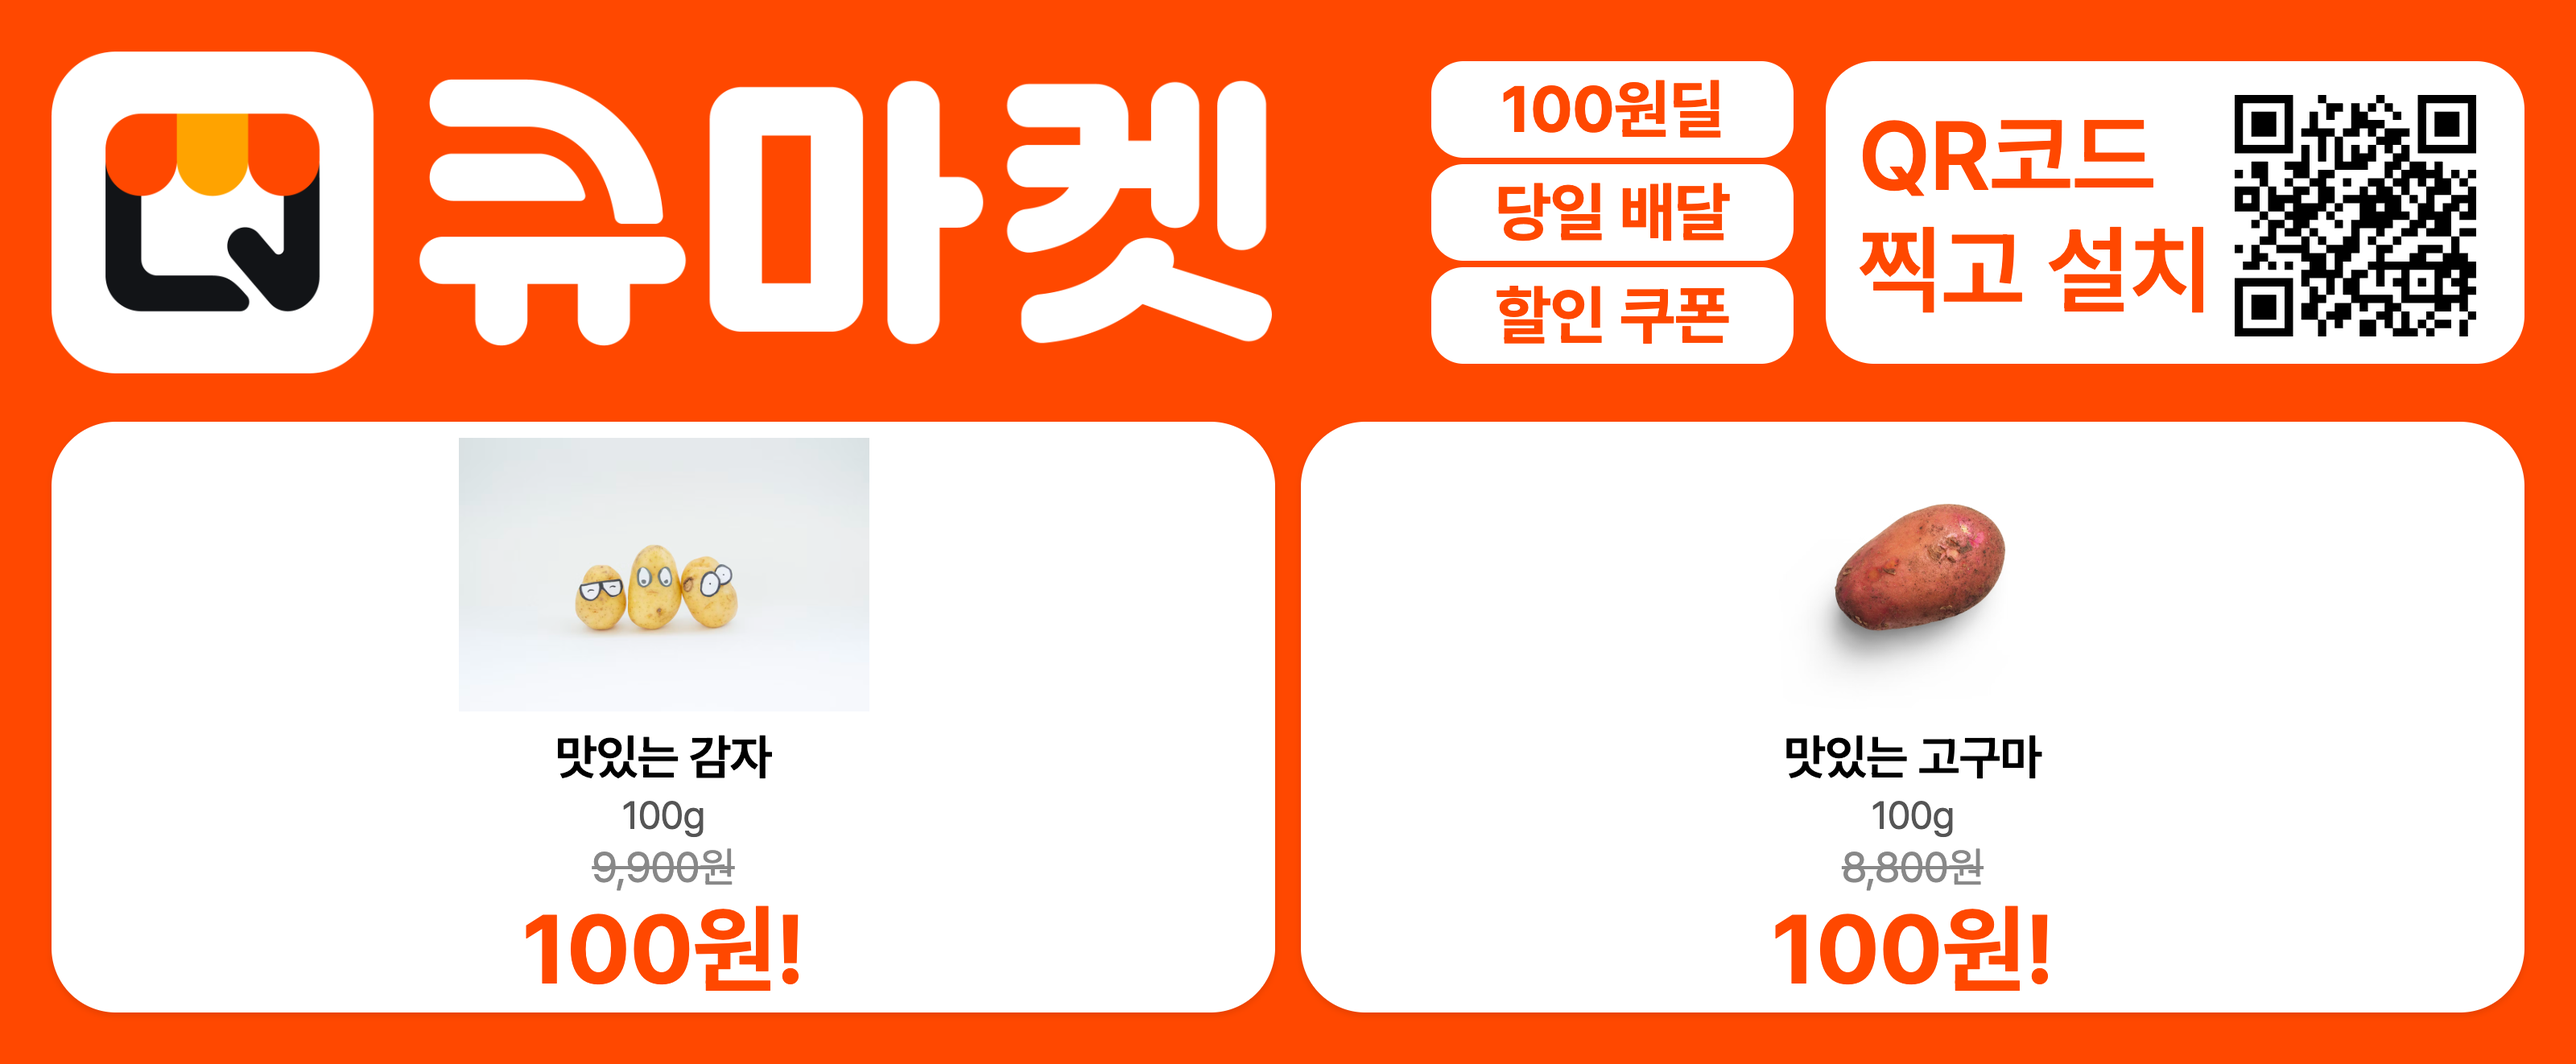
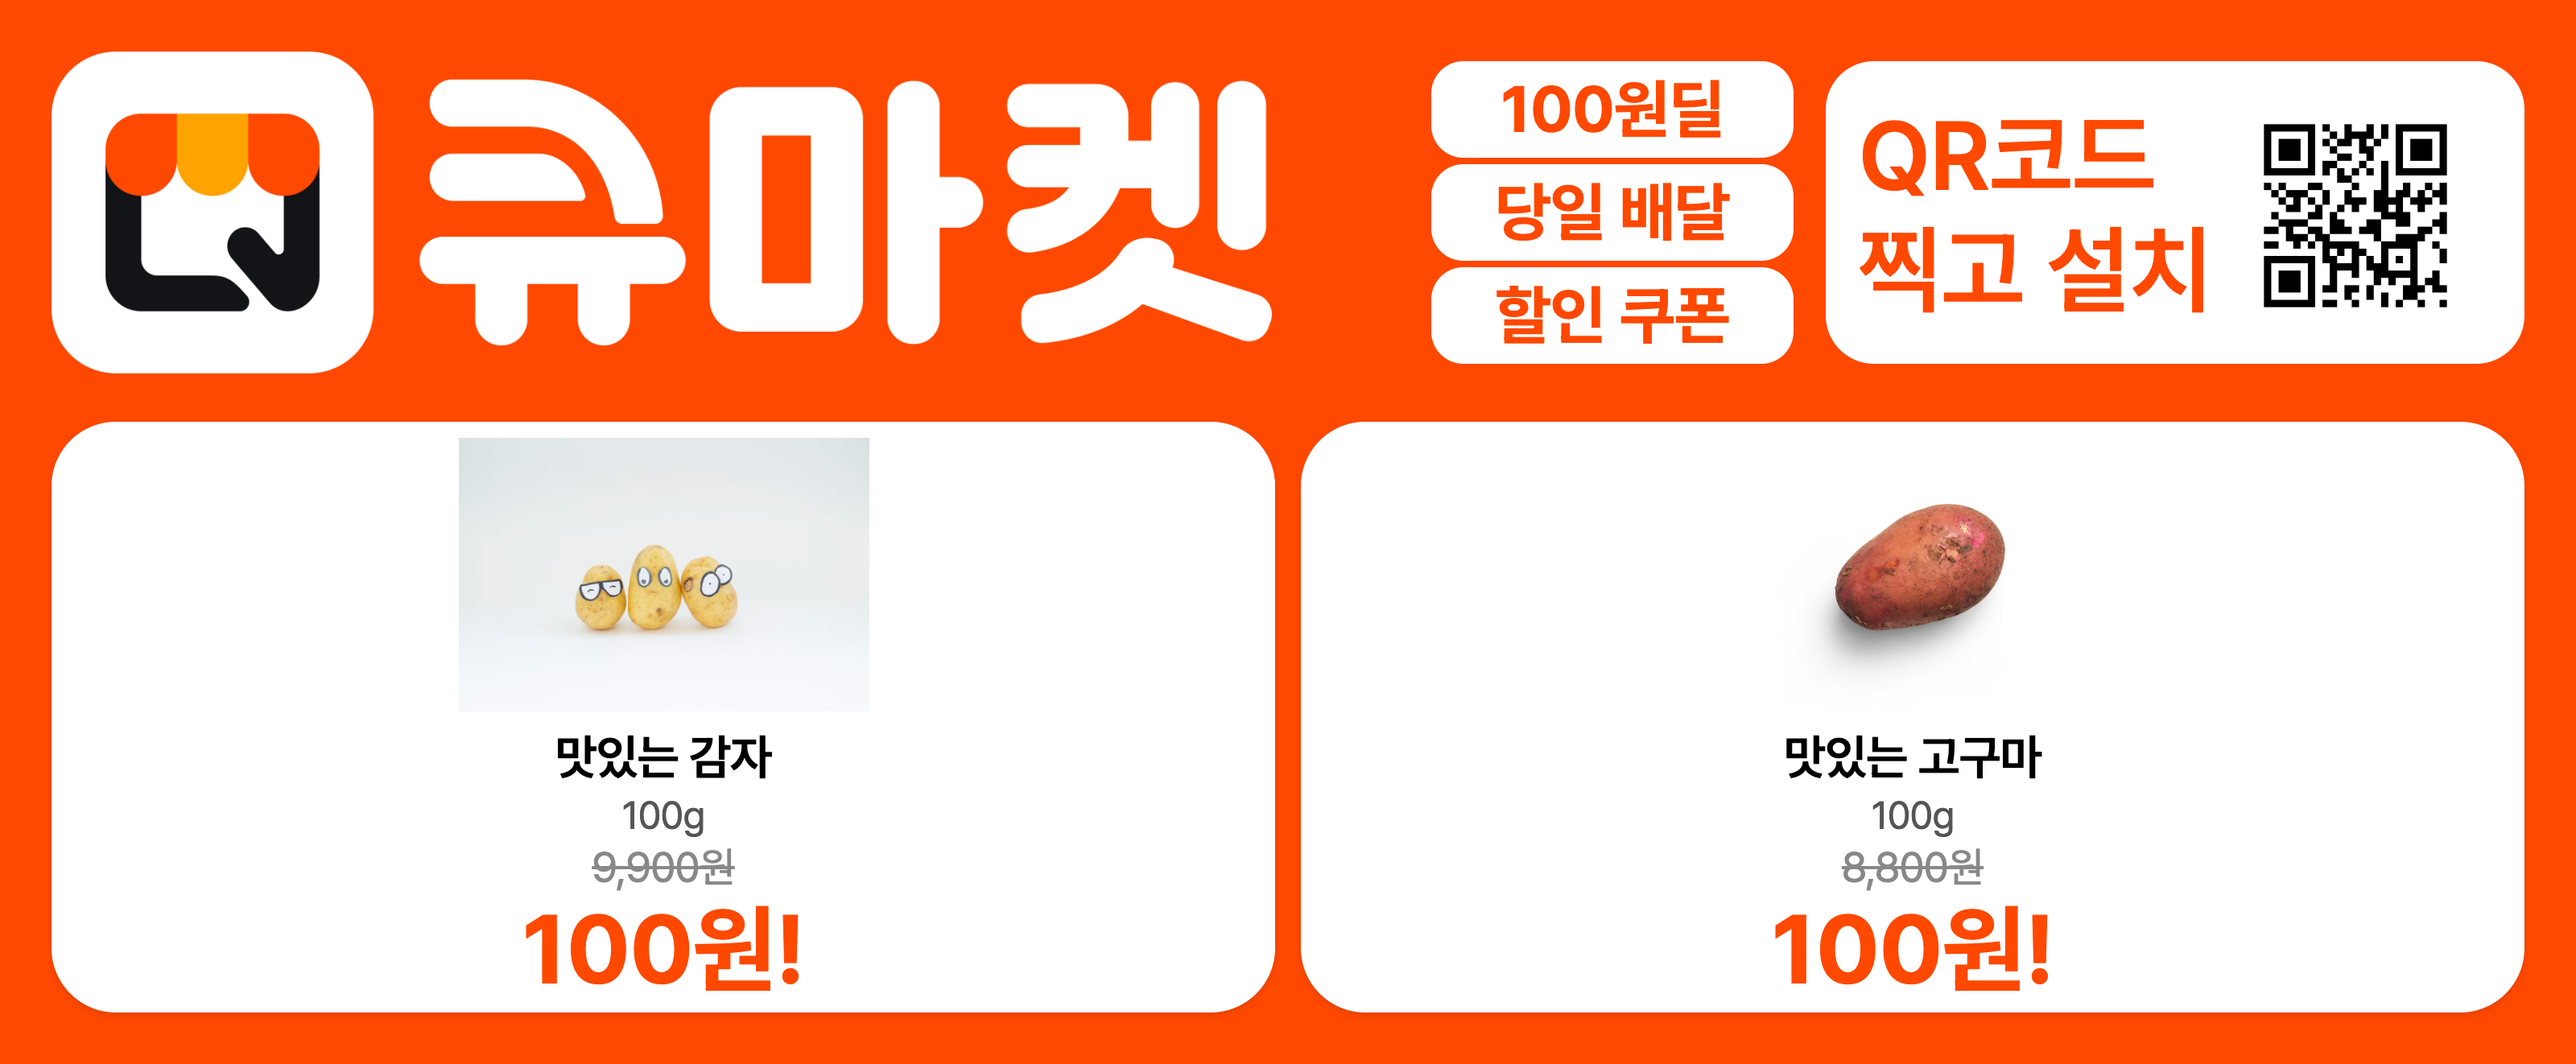
✨ 에어브릿지 트래킹 링크 + QR코드 자동화 기능 추가

Changed region(s): [[0.8438, 0.093, 0.9688, 0.3411]]

diff --git a/output_html/테스트 마트.html b/output_html/테스트 마트.html
@@ -195,7 +195,7 @@
                 </div>
                 <div class="qr-box">
                     <div class="qr-text" contenteditable="true">QR코드<br>찍고 설치</div>
-                    <img src="../assets/qmarket-qr.svg" alt="QR코드" class="qr">
+                    <img src="../output_qr/테스트 마트.png" alt="QR코드" class="qr">
                 </div>
             </div>
         </div>

diff --git a/templates/flyer_template.html b/templates/flyer_template.html
@@ -195,7 +195,7 @@
                 </div>
                 <div class="qr-box">
                     <div class="qr-text" contenteditable="true">QR코드<br>찍고 설치</div>
-                    <img src="../assets/qmarket-qr.svg" alt="QR코드" class="qr">
+                    <img src="{{ qr_image_path }}" alt="QR코드" class="qr">
                 </div>
             </div>
         </div>

diff --git a/generate.py b/generate.py
@@ -1,6 +1,8 @@
 import pandas as pd
 from jinja2 import Environment, FileSystemLoader
 import os
+from airbridge_link import generate_tracking_link
+from qr_generator import generate_qr
 
 # ===== 0-1. 특정 마트 키워드 입력 =====
 target_keyword = input("전단을 생성할 마트명을 입력하세요 (엔터시 전체 생성): ").strip()
@@ -18,10 +20,11 @@ include_current_price = input("실판매가를 넣으시겠습니까? (y/n): ").
 CSV_PATH = "data/100wondeal.csv"
 TEMPLATE_DIR = "templates"
 OUTPUT_DIR = "output_html"
+QR_DIR = "output_qr"
 
 df = pd.read_csv(CSV_PATH)
 
-# 컬럼명 매핑 (ERP 기반 구조)
+# 컬럼명 매핑
 df = df.rename(columns={
     '마트': 'mart_name',
     '상품명': 'product_name',
@@ -31,9 +34,7 @@ df = df.rename(columns={
     '실판매가': 'current_price'
 })
 
-# 결측 처리
 df['product_image_url'] = df['product_image_url'].fillna('../assets/default-thumb.png')
-# 규격 NaN 처리 + 문자열 변환
 df['standard'] = df['standard'].fillna('').astype(str)
 df['original_price'] = pd.to_numeric(df['original_price'], errors='coerce').fillna(0)
 df['current_price'] = pd.to_numeric(df['current_price'], errors='coerce').fillna(0)
@@ -44,6 +45,7 @@ template = env.get_template("flyer_template.html")
 
 # 출력 폴더 생성
 os.makedirs(OUTPUT_DIR, exist_ok=True)
+os.makedirs(QR_DIR, exist_ok=True)
 
 # ===== 2. 마트별 전단 생성 =====
 for mart_name, group in df.groupby("mart_name"):
@@ -57,20 +59,27 @@ for mart_name, group in df.groupby("mart_name"):
         top_items = top_items.iloc[:-1]
 
     product_list = top_items.to_dict(orient="records")
-
     num_columns = min(max(len(product_list) // 2, 2), 5)
     grid_class = f"columns-{num_columns}"
 
+    # ✅ 트래킹 링크 및 QR 코드 생성
+    tracking_url = generate_tracking_link(mart_name)
+    qr_image_path = generate_qr(mart_name, tracking_url)  # ex. output_qr/마트명.png
+    qr_image_path = f"../{qr_image_path}"  # ✅ HTML용 상대 경로로 변환
+
+
+    # ✅ HTML 렌더링
     rendered_html = template.render(
-        products=product_list,
-        grid_class=grid_class,
-        show_product_name=include_product_name,
-        show_image=include_image,
-        show_standard=include_standard,
-        show_original_price=include_original_price,
-        show_current_price=include_current_price,
-        mart_name=mart_name  # ✅ 마트명을 title로 전달
-    )
+    products=product_list,
+    grid_class=grid_class,
+    show_product_name=include_product_name,
+    show_image=include_image,
+    show_standard=include_standard,
+    show_original_price=include_original_price,
+    show_current_price=include_current_price,
+    mart_name=mart_name,
+    qr_image_path=qr_image_path  # 수정된 상대 경로 전달
+)
 
     safe_mart_name = "".join(c for c in mart_name if c.isalnum() or c in (' ', '-', '_')).rstrip()
     output_path = os.path.join(OUTPUT_DIR, f"{safe_mart_name}.html")

diff --git a/airbridge_link.py b/airbridge_link.py
@@ -1,0 +1,54 @@
+import requests
+import os
+from dotenv import load_dotenv
+from datetime import datetime
+
+load_dotenv()
+
+AIRBRIDGE_API_TOKEN = os.getenv("AIRBRIDGE_API_TOKEN")
+AIRBRIDGE_API_URL = "https://api.airbridge.io/v1/tracking-links"
+
+def generate_tracking_link(mart_name: str) -> str:
+    """
+    마트명을 기반으로 Airbridge 트래킹 링크를 생성하고 shortUrl을 반환합니다.
+    """
+    today_str = datetime.now().strftime("%y%m%d")  # 예: 250326
+    campaign_name = f"{today_str}_{mart_name}_flyer"
+
+    headers = {
+        "Authorization": f"Bearer {AIRBRIDGE_API_TOKEN}",
+        "Content-Type": "application/json",
+        "Accept-Language": "ko"
+    }
+
+    data = {
+        "channel": "offline",
+        "campaignParams": {
+            "campaign": campaign_name,
+            "ad_group": "presswork",
+            "ad_creative": "flyer"
+        },
+        "isReengagement": "OFF",
+        "deeplinkUrl": "qmarket://home",
+        "deeplinkOption": {
+        "showAlertForInitialDeeplinkingIssue": False  # ✅ 스탑오버 비활성화
+    },
+        "fallbackPaths": {
+            "android": "google-play",
+            "ios": "itunes-appstore",
+            "desktop": "https://qmarket.online"
+        }
+    }
+
+    try:
+        response = requests.post(AIRBRIDGE_API_URL, headers=headers, json=data)
+        response.raise_for_status()
+        short_url = response.json()["data"]["trackingLink"]["shortUrl"]
+        return short_url
+    except Exception as e:
+        print(f"[ERROR] 트래킹 링크 생성 실패: {mart_name} → {e}")
+        return None
+
+# 테스트 실행 (삭제해도 무방)
+if __name__ == "__main__":
+    print(generate_tracking_link("큐마켓"))

diff --git a/qr_generator.py b/qr_generator.py
@@ -1,0 +1,24 @@
+# qr_generator.py
+import qrcode
+import os
+
+def generate_qr(mart_name: str, tracking_url: str) -> str:
+    """
+    트래킹 URL을 QR 코드로 변환하여 output_qr 디렉토리에 저장하고,
+    해당 파일 경로를 반환합니다.
+    """
+    safe_mart_name = "".join(c for c in mart_name if c.isalnum() or c in (' ', '-', '_')).rstrip()
+    qr_path = os.path.join("output_qr", f"{safe_mart_name}.png")
+
+    qr = qrcode.QRCode(
+        version=1,
+        box_size=10,
+        border=1
+    )
+    qr.add_data(tracking_url)
+    qr.make(fit=True)
+
+    img = qr.make_image(fill_color="black", back_color="white")
+    img.save(qr_path)
+
+    return qr_path

diff --git a/generate_env_sample.py b/generate_env_sample.py
@@ -1,0 +1,13 @@
+import os
+from shutil import copyfile
+
+env_path = ".env"
+sample_path = ".env.sample"
+
+if os.path.exists(env_path):
+    copyfile(env_path, sample_path)
+    print(f"✅ '{env_path}' 파일을 기반으로 '{sample_path}' 파일을 생성했습니다.")
+else:
+    with open(sample_path, "w", encoding="utf-8") as f:
+        f.write("AIRBRIDGE_API_TOKEN=your_airbridge_token_here\n")
+    print(f"⚠ '{env_path}' 파일이 없어 기본 템플릿으로 '{sample_path}' 파일을 생성했습니다.")
